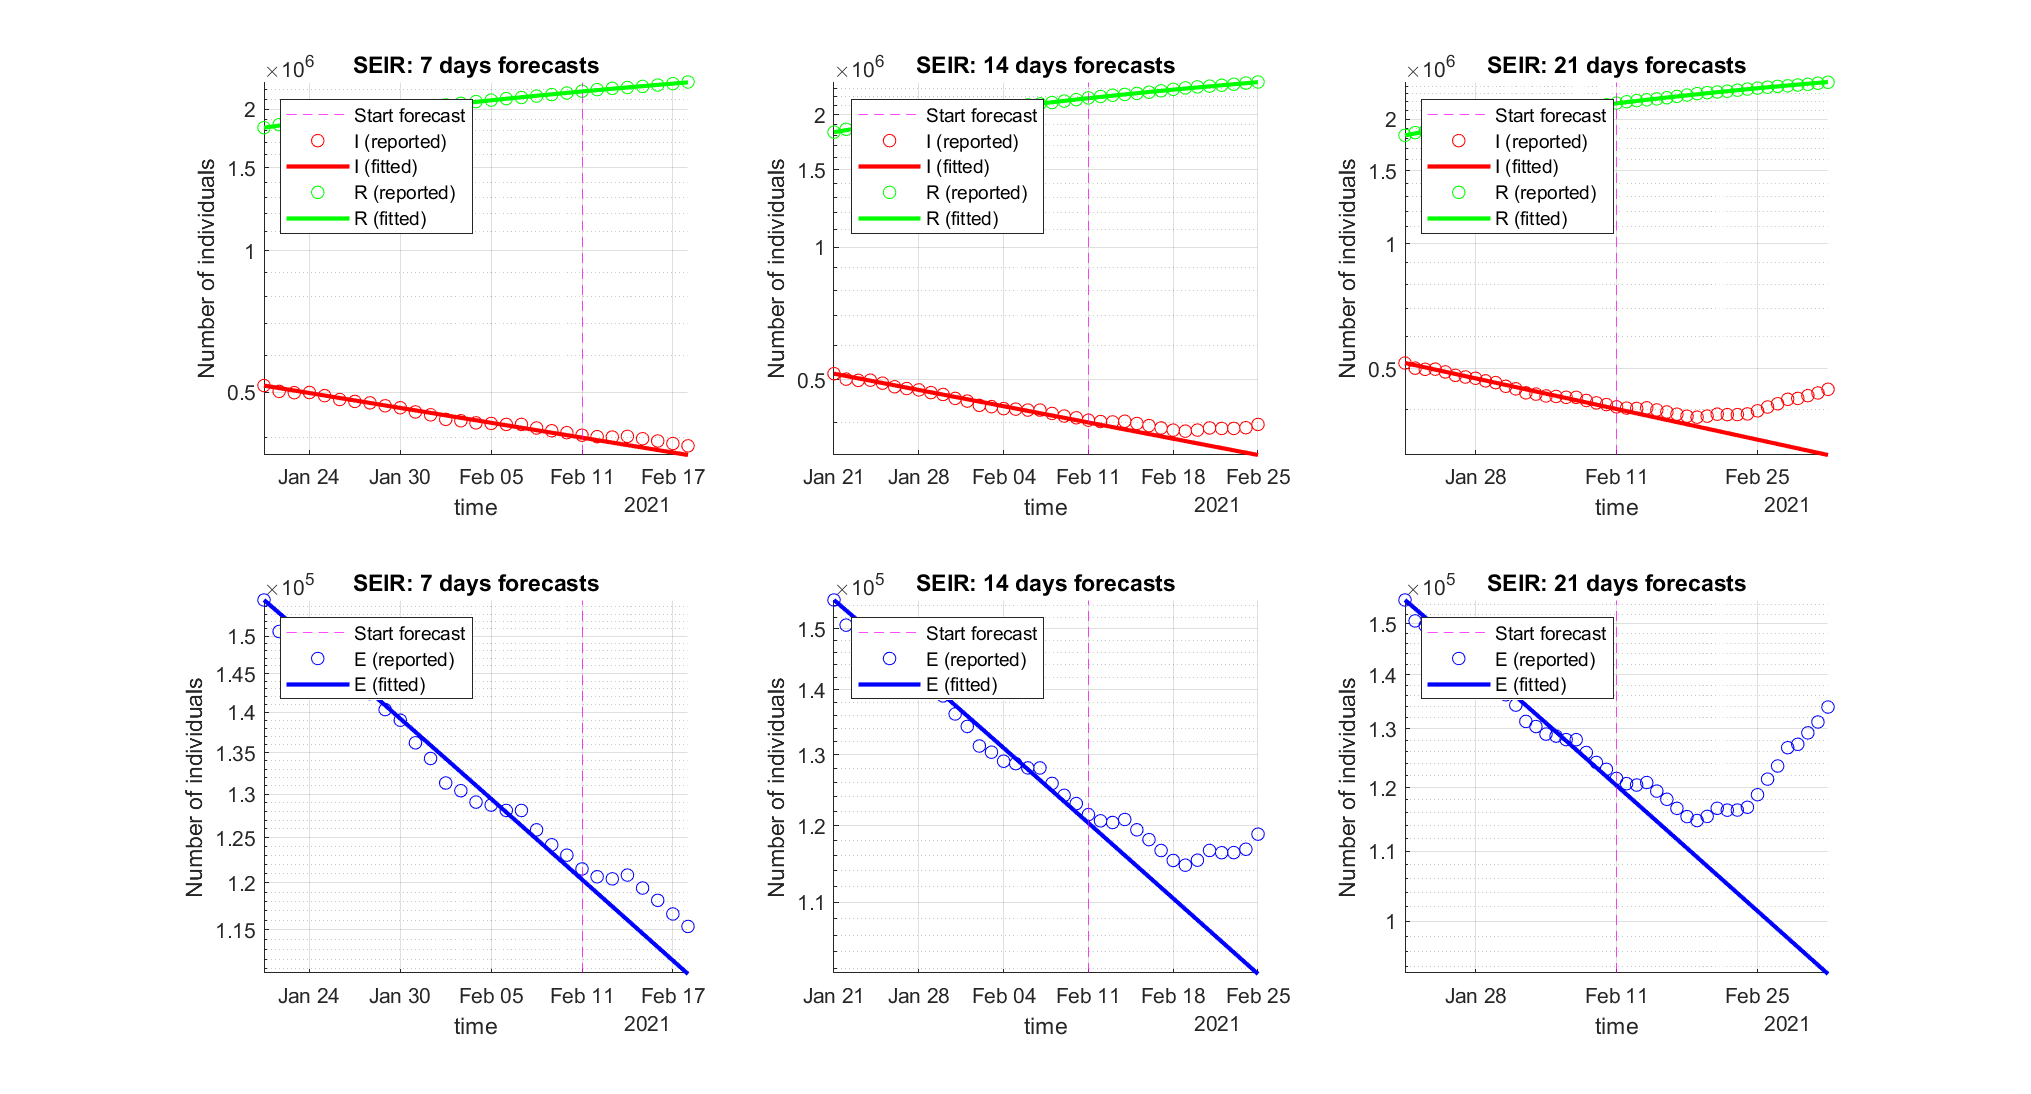
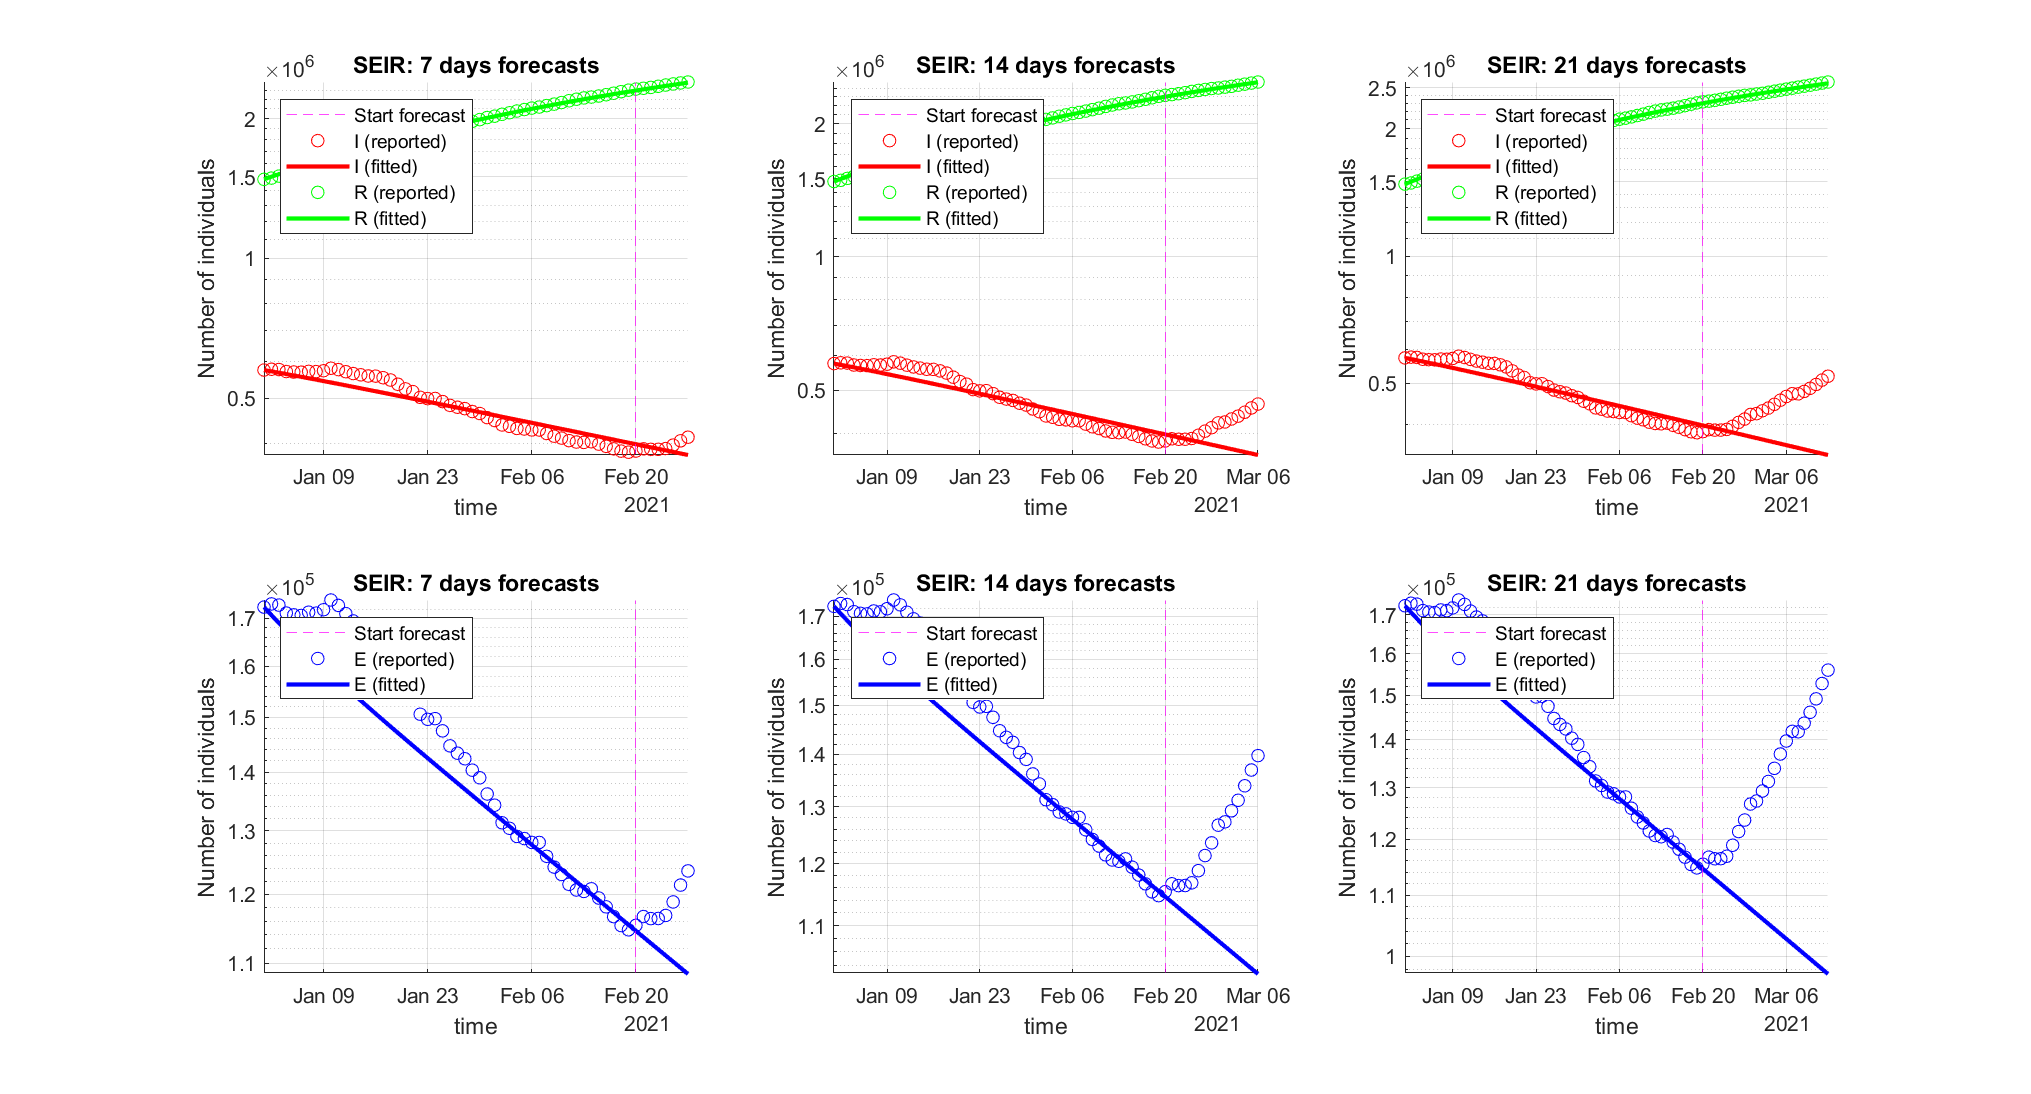
Update region data

diff --git a/experiments/january/ITAJanuary.m b/experiments/january/ITAJanuary.m
@@ -6,27 +6,37 @@ close all
 % add folders to path
 addpath('./data/');
 addpath('./models/');
-addpath('./results/');
 addpath('./results/overview');
-addpath('./results/january');
-addpath('./results/october');
+addpath('./results/january/ITA');
+addpath('./results/october/ITA');
 addpath('./models/SIR');
 addpath('./models/SEIR');
 addpath('./models/SEIIR');
 addpath('./models/SEIIRHD');
 
 %retrieve the data structs
-[data, dates] = getDataByRegion("Sardegna");
+[data, dates] = getData;
 sizes = size(dates);
 size_data = sizes(2);
-N = 1611621;
-t0 = find(dates=="21-Jan-2021"); 
-tf = find(dates=="11-Feb-2021"); 
-%% PLOT FEBRUARY DATA
-plot_data(data, dates(t0:tf), N, t0, tf, "./results/january/Sardegna/januaryPlot.png");
-%% FITTING SIR MODEL 
-beta0 = 0.0637/N;  
-gamma0 = 0.0123; 
+N = 60.*10^6;
+t0 = find(dates=="01-Jan-2021"); 
+tf = find(dates=="20-Feb-2021"); 
+%% PLOT DATA
+close all
+plot_data(data, dates(t0:tf), N, t0, tf, "./results/january/ITA/januaryPlot.png");
+%% FITTING SIR MODEL
+% [S, I, R]
+
+beta0 = 0.1068/N;  
+gamma0 = 0.0134; 
+
+% adimensional SIR model for fitting
+% We divide every variable by N
+% s = S/N, e= E/N etc.
+% [s, i, r]
+% s' = -(beta*N)*(S/N)*(I/N) = -(beta*N)*s*i
+% i' = (beta*N)*(S/N)*(I/N) - (gamma)*(I/N) = (beta*N)*s*i - gamma*i
+% r' = gamma*(I/N) = gamma*i
 
 I = cast((data.totale_positivi), 'double'); 
 R = cast((data.dimessi_guariti), 'double');
@@ -46,10 +56,10 @@ p0_SIR = [beta0, gamma0];
 p_SIR = fit_SIR(X_ad_SIR, X0_ad_SIR, p0_SIR, t0, tf);
 fprintf("--- SIR FITTING DONE --- \n");
 fprintf("beta: %f, gamma: %f \n", p_SIR(1), p_SIR(2));
-%% PLOT SIR 
+%% PLOT SIR
 close all
-tp = [7, 14, 21];
-plot_SIR(X_SIR, X0_ad_SIR, N, p_SIR, dates, t0, tf, tp, "./results/january/Sardegna/SIR_fitting.png");
+tp = [7,14, 21];
+plot_SIR(X_SIR, X0_ad_SIR, N, p_SIR, dates, t0, tf, tp,"./results/january/ITA/SIR_fitting.png");
 %% FITTING SEIR MODEL
 % [S, E, I, R]
 
@@ -76,7 +86,7 @@ S0 = N-E0-I0-R0;
 X0_ad_SEIR = [S0 E0 I0 R0]/N;
 
 S0 = N;
-tau = 5.5096;
+tau = 3.3852; 
 alpha0=1/tau;
 
 % initial beta and gamma are taken from the previous simulation results 
@@ -87,14 +97,20 @@ p0_SEIR = [beta0, alpha0, gamma0];
 p_SEIR = fit_SEIR(X_ad_SEIR, X0_ad_SEIR, p0_SEIR, t0, tf);
 fprintf("--- SEIR FITTING DONE --- \n");
 fprintf("beta: %f, alpha: %f, gamma: %f \n", p_SEIR(1), p_SEIR(2), p_SEIR(3));
+
+%%
+F = [0 p_SEIR(1); 0 0];
+V = [p_SEIR(2) 0; -p_SEIR(2) p_SEIR(3)];
+G = F*inv(V);
+R0 = eigs(G,1)
 %% PLOT SEIR
 close all
 tp = [7,14, 21];
-plot_SEIR(X_SEIR, X0_ad_SEIR, N, p_SEIR, dates, t0, tf, tp,"./results/january/Sardegna/SEIR_fitting.png");
+plot_SEIR(X_SEIR, X0_ad_SEIR, N, p_SEIR, dates, t0, tf, tp,"./results/january/ITA/SEIR_fitting.png");
 %% FITTING SEIIR MODEL
 
 S = N-E-I-R;
-f0 = 0.4648;
+f0 = 0.4610;
 
 I_a = (1-f0)*I;
 I_s = f0*I;
@@ -112,18 +128,19 @@ X0_ad_SEIIR = [S0 E0 I_a0 I_s0 R0]/N;
 alpha0 = p_SEIR(2);
 gamma0 = p_SEIR(3);
 
-beta_a0 = 0.108;
-beta_s0 = 0.0103; % cambiato
+beta_a0 = 0.0422;
+beta_s0 = 0.2027;
 
-p0_SEIIR = [f0, alpha0, gamma0, beta_a0, beta_s0 ];
+p0_SEIIR = [f0, alpha0, gamma0, beta_a0, beta_s0];
 p_SEIIR = fit_SEIIR(X_ad_SEIIR, X0_ad_SEIIR, p0_SEIIR, t0, tf);
 fprintf("--- SEIIR FITTING DONE --- \n");
 fprintf("f0: %f, alpha: %f, gamma: %f, beta_a: %f, beta_s: %f\n"...
     , p_SEIIR(1), p_SEIIR(2), p_SEIIR(3), p_SEIIR(4), p_SEIIR(5));
 %% PLOT SEIIR
-close all 
+close all
 tp = [7,14, 21];
-plot_SEIIR(X_SEIIR, X0_ad_SEIIR, N, p_SEIIR, dates, t0, tf, tp, "./results/january/Sardegna/SEIIR_fitting.png");
+plot_SEIIR(X_SEIIR, X0_ad_SEIIR, N, p_SEIIR, dates, t0, tf, tp,...
+    "./results/january/ITA/SEIIR_fitting.png");
 %% FITTING SEIIRHD MODEL
 
 S = N-E-I-R;
@@ -150,7 +167,7 @@ gamma0 = p_SEIIR(3);
 beta_a0 = p_SEIIR(4);
 beta_s0 = p_SEIIR(5);
 
-nu_s0 = 0.0076;
+nu_s0 = 0.0110;
 mu0 = 0.0013;
 
 p0_SEIIRHD = [f0, alpha0, gamma0, beta_a0, beta_s0, nu_s0, mu0];
@@ -165,4 +182,5 @@ fprintf("f0: %f, alpha: %f, gamma: %f, \n beta_a: %f, beta_s: %f \n nu_s0: %f, m
 %% PLOT SEIIRHD
 close all
 tp = [7,14, 21];
-plot_SEIIRHD(X_SEIIRHD, X0_ad_SEIIRHD, N, p_SEIIRHD, dates, t0, tf, tp, "./results/january/Sardegna/SEIIRHD_fitting.png");
+plot_SEIIRHD(X_SEIIRHD, X0_ad_SEIIRHD, N, p_SEIIRHD, dates, t0, tf, tp,...
+    "./results/january/ITA/SEIIRHD_fitting.png");

diff --git a/experiments/january/SardegnaJanuary.m b/experiments/january/SardegnaJanuary.m
@@ -6,37 +6,27 @@ close all
 % add folders to path
 addpath('./data/');
 addpath('./models/');
+addpath('./results/');
 addpath('./results/overview');
-addpath('./results/january/ITA');
-addpath('./results/october/ITA');
+addpath('./results/january');
+addpath('./results/october');
 addpath('./models/SIR');
 addpath('./models/SEIR');
 addpath('./models/SEIIR');
 addpath('./models/SEIIRHD');
 
 %retrieve the data structs
-[data, dates] = getData;
+[data, dates] = getDataByRegion("Sardegna");
 sizes = size(dates);
 size_data = sizes(2);
-N = 60.*10^6;
-t0 = find(dates=="21-Jan-2021"); 
-tf = find(dates=="11-Feb-2021"); 
-%% PLOT DATA
-close all
-plot_data(data, dates(t0:tf), N, t0, tf, "./results/january/ITA/januaryPlot.png");
-%% FITTING SIR MODEL
-% [S, I, R]
-
-beta0 = 0.1068/N;  
-gamma0 = 0.0134; 
-
-% adimensional SIR model for fitting
-% We divide every variable by N
-% s = S/N, e= E/N etc.
-% [s, i, r]
-% s' = -(beta*N)*(S/N)*(I/N) = -(beta*N)*s*i
-% i' = (beta*N)*(S/N)*(I/N) - (gamma)*(I/N) = (beta*N)*s*i - gamma*i
-% r' = gamma*(I/N) = gamma*i
+N = 1611621;
+t0 = find(dates=="01-Jan-2021"); 
+tf = find(dates=="20-Feb-2021"); 
+%% PLOT FEBRUARY DATA
+plot_data(data, dates(t0:tf), N, t0, tf, "./results/january/Sardegna/januaryPlot.png");
+%% FITTING SIR MODEL 
+beta0 = 0.0637/N;  
+gamma0 = 0.0123; 
 
 I = cast((data.totale_positivi), 'double'); 
 R = cast((data.dimessi_guariti), 'double');
@@ -56,10 +46,10 @@ p0_SIR = [beta0, gamma0];
 p_SIR = fit_SIR(X_ad_SIR, X0_ad_SIR, p0_SIR, t0, tf);
 fprintf("--- SIR FITTING DONE --- \n");
 fprintf("beta: %f, gamma: %f \n", p_SIR(1), p_SIR(2));
-%% PLOT SIR
+%% PLOT SIR 
 close all
-tp = [7,14, 21];
-plot_SIR(X_SIR, X0_ad_SIR, N, p_SIR, dates, t0, tf, tp,"./results/january/ITA/SIR_fitting.png");
+tp = [7, 14, 21];
+plot_SIR(X_SIR, X0_ad_SIR, N, p_SIR, dates, t0, tf, tp, "./results/january/Sardegna/SIR_fitting.png");
 %% FITTING SEIR MODEL
 % [S, E, I, R]
 
@@ -86,7 +76,7 @@ S0 = N-E0-I0-R0;
 X0_ad_SEIR = [S0 E0 I0 R0]/N;
 
 S0 = N;
-tau = 3.3852; 
+tau = 5.5096;
 alpha0=1/tau;
 
 % initial beta and gamma are taken from the previous simulation results 
@@ -97,20 +87,14 @@ p0_SEIR = [beta0, alpha0, gamma0];
 p_SEIR = fit_SEIR(X_ad_SEIR, X0_ad_SEIR, p0_SEIR, t0, tf);
 fprintf("--- SEIR FITTING DONE --- \n");
 fprintf("beta: %f, alpha: %f, gamma: %f \n", p_SEIR(1), p_SEIR(2), p_SEIR(3));
-
-%%
-F = [0 p_SEIR(1); 0 0];
-V = [p_SEIR(2) 0; -p_SEIR(2) p_SEIR(3)];
-G = F*inv(V);
-R0 = eigs(G,1)
 %% PLOT SEIR
 close all
 tp = [7,14, 21];
-plot_SEIR(X_SEIR, X0_ad_SEIR, N, p_SEIR, dates, t0, tf, tp,"./results/january/ITA/SEIR_fitting.png");
+plot_SEIR(X_SEIR, X0_ad_SEIR, N, p_SEIR, dates, t0, tf, tp,"./results/january/Sardegna/SEIR_fitting.png");
 %% FITTING SEIIR MODEL
 
 S = N-E-I-R;
-f0 = 0.4610;
+f0 = 0.4648;
 
 I_a = (1-f0)*I;
 I_s = f0*I;
@@ -128,19 +112,18 @@ X0_ad_SEIIR = [S0 E0 I_a0 I_s0 R0]/N;
 alpha0 = p_SEIR(2);
 gamma0 = p_SEIR(3);
 
-beta_a0 = 0.0422;
-beta_s0 = 0.2027;
+beta_a0 = 0.108;
+beta_s0 = 0.0103; % cambiato
 
-p0_SEIIR = [f0, alpha0, gamma0, beta_a0, beta_s0];
+p0_SEIIR = [f0, alpha0, gamma0, beta_a0, beta_s0 ];
 p_SEIIR = fit_SEIIR(X_ad_SEIIR, X0_ad_SEIIR, p0_SEIIR, t0, tf);
 fprintf("--- SEIIR FITTING DONE --- \n");
 fprintf("f0: %f, alpha: %f, gamma: %f, beta_a: %f, beta_s: %f\n"...
     , p_SEIIR(1), p_SEIIR(2), p_SEIIR(3), p_SEIIR(4), p_SEIIR(5));
 %% PLOT SEIIR
-close all
+close all 
 tp = [7,14, 21];
-plot_SEIIR(X_SEIIR, X0_ad_SEIIR, N, p_SEIIR, dates, t0, tf, tp,...
-    "./results/january/ITA/SEIIR_fitting.png");
+plot_SEIIR(X_SEIIR, X0_ad_SEIIR, N, p_SEIIR, dates, t0, tf, tp, "./results/january/Sardegna/SEIIR_fitting.png");
 %% FITTING SEIIRHD MODEL
 
 S = N-E-I-R;
@@ -167,7 +150,7 @@ gamma0 = p_SEIIR(3);
 beta_a0 = p_SEIIR(4);
 beta_s0 = p_SEIIR(5);
 
-nu_s0 = 0.0110;
+nu_s0 = 0.0076;
 mu0 = 0.0013;
 
 p0_SEIIRHD = [f0, alpha0, gamma0, beta_a0, beta_s0, nu_s0, mu0];
@@ -182,5 +165,4 @@ fprintf("f0: %f, alpha: %f, gamma: %f, \n beta_a: %f, beta_s: %f \n nu_s0: %f, m
 %% PLOT SEIIRHD
 close all
 tp = [7,14, 21];
-plot_SEIIRHD(X_SEIIRHD, X0_ad_SEIIRHD, N, p_SEIIRHD, dates, t0, tf, tp,...
-    "./results/january/ITA/SEIIRHD_fitting.png");
+plot_SEIIRHD(X_SEIIRHD, X0_ad_SEIIRHD, N, p_SEIIRHD, dates, t0, tf, tp, "./results/january/Sardegna/SEIIRHD_fitting.png");

diff --git a/experiments/january/MoliseJanuary.m b/experiments/january/MoliseJanuary.m
@@ -20,8 +20,8 @@ addpath('./models/SEIIRHD');
 sizes = size(dates);
 size_data = sizes(2);
 N = 300516;
-t0 = find(dates=="21-Jan-2021"); 
-tf = find(dates=="11-Feb-2021"); 
+t0 = find(dates=="01-Jan-2021"); 
+tf = find(dates=="20-Feb-2021"); 
 %% PLOT FEBRUARY DATA
 plot_data(data, dates(t0:tf), N, t0, tf, "./results/january/Molise/januaryPlot.png");
 %% FITTING SIR MODEL 
